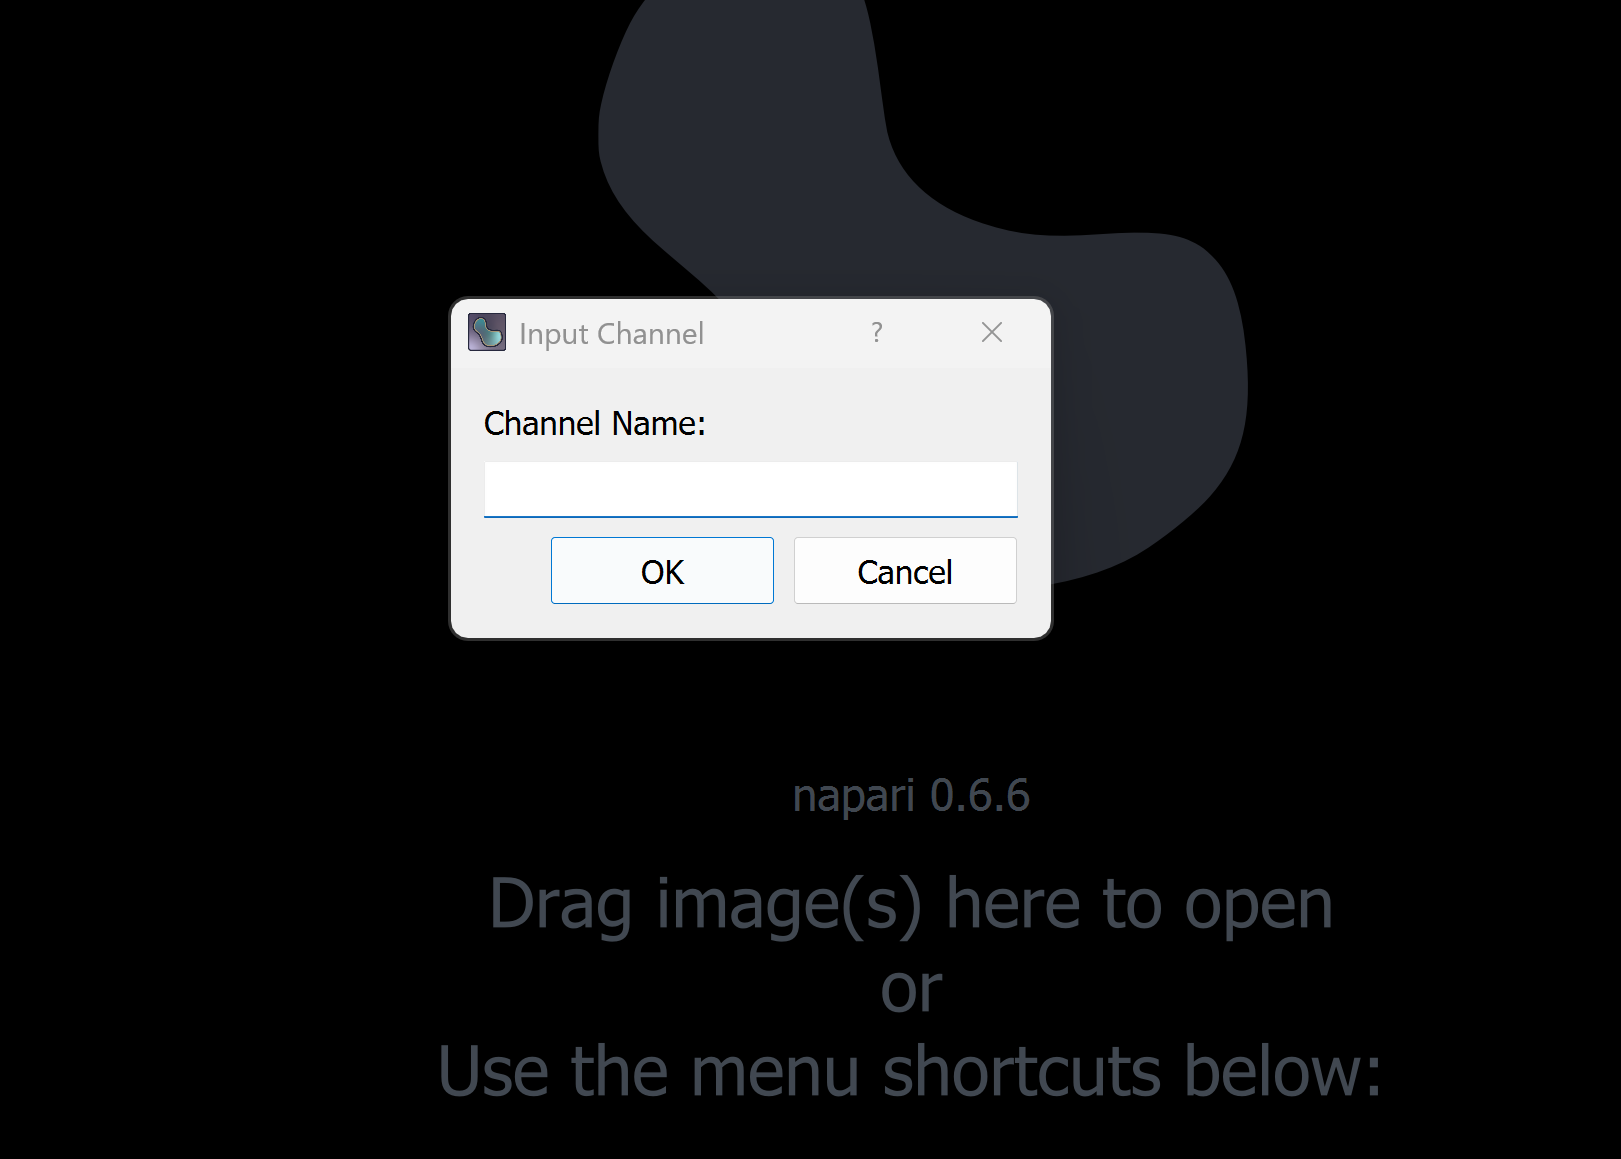
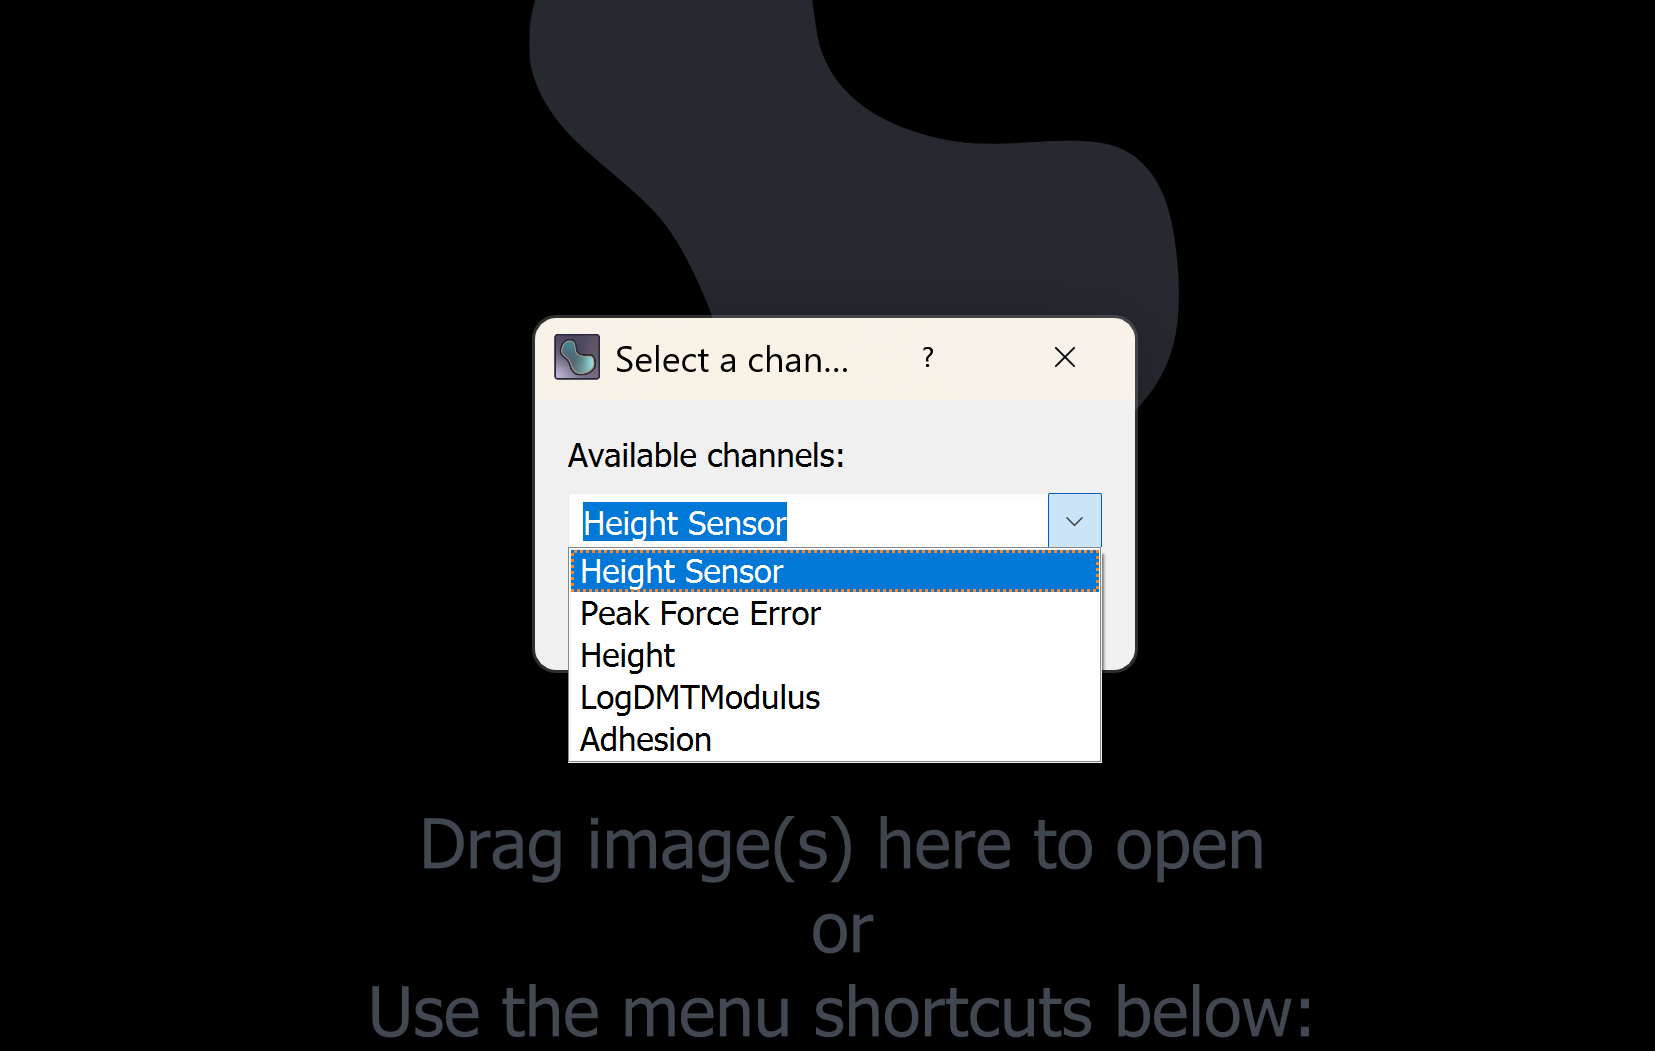
Update README.md to include current functions and enhance clarity and update input channel image.

diff --git a/README.md b/README.md
@@ -61,9 +61,20 @@ to be edited directly through the napari gui. Changes made are not automatically
 however, the updated config file can be saved as a file with the Save to file button at the bottom of the window.
 ![Edit config window](readme_images/edit_config_window.png)
 When you run a function for the first time, a window will open with options to adjust for that function
-(which are applied next time the function is run). There is also a run button in that window. This runs the function
-on the selected layer (it does exactly the same thing as clicking the function button in the grid).
+(which are applied next time the function is run) if that function has options which can be adjusted.
+There is also a run button in that window. This runs the function on the selected layer (it does exactly th
+same thing as clicking the function button in the grid).
 ![Function window](readme_images/function_window.png)
+
+Current functions:
+1. Load config button allows a config file to be selected from your hard disk.
+2. Run filters requires an image layer to be selected and creates an image layer with topostats filters run.
+3. Run grains requires an image layer to be selected and creates a labels layer with topostats grains detection run.
+4. Make 3D requires an image layer to be selected and creates a 3D image layer. Viewing mode (in the bottom left of
+the viewer) is automatically switched to 3D.
+5. Run Grainstats requires a labels layer **created by the Run Grains function** to be selected and creates an 
+interactivate table in the dock on the right.
+
 
 ## Contributing
 
